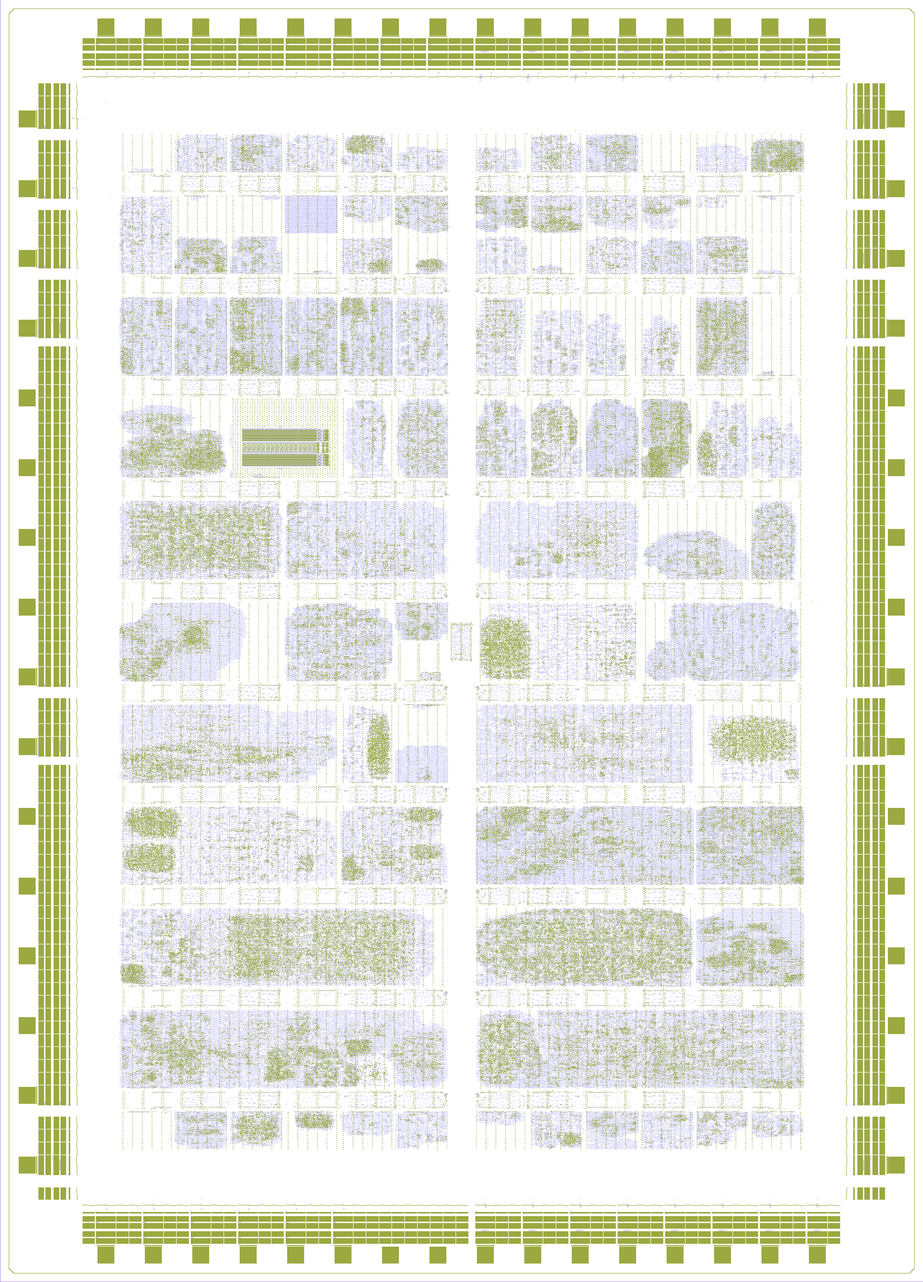
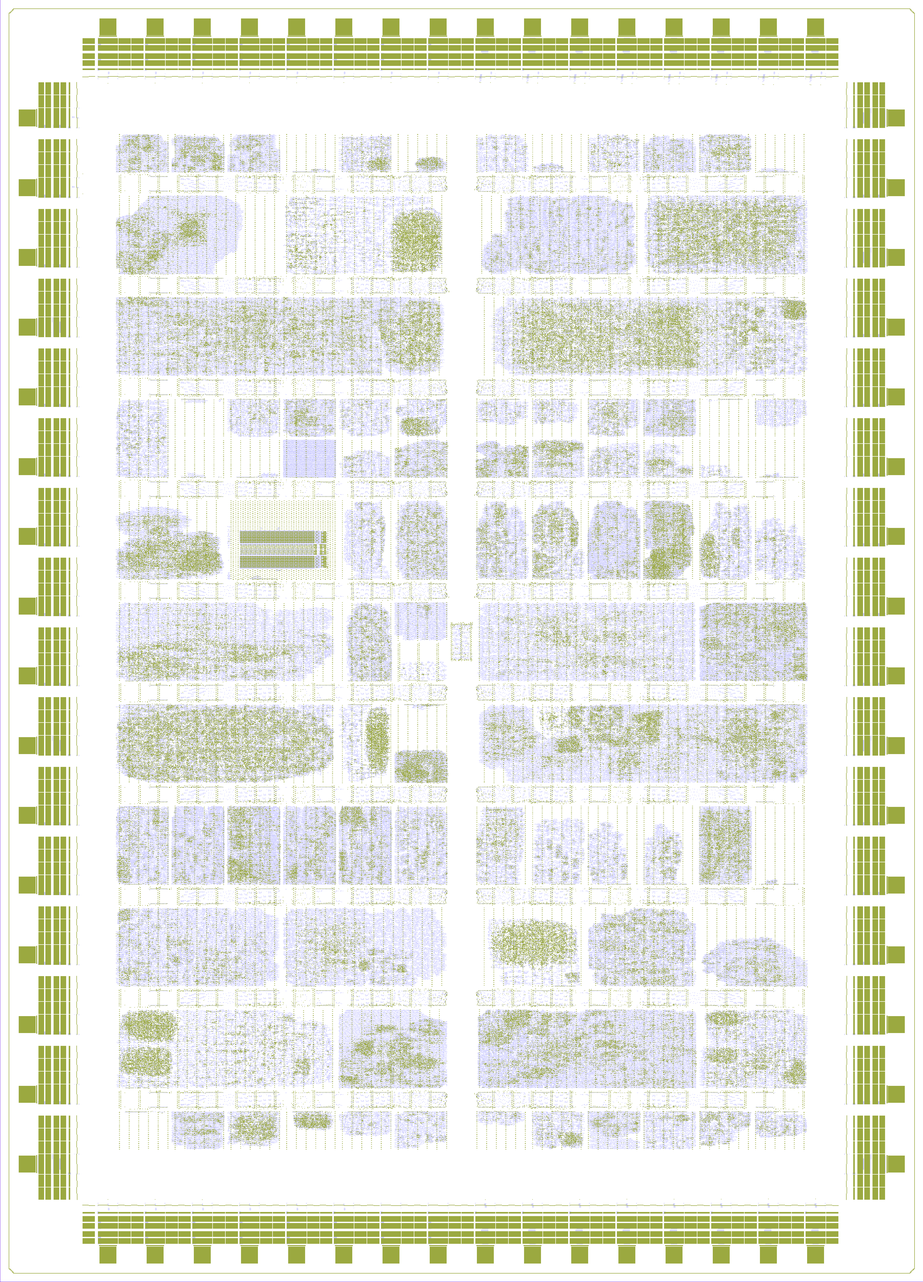
docs(datasheet): update GDS renders

diff --git a/docs/chip_map.md b/docs/chip_map.md
@@ -1,9 +1,25 @@
-# Chip map
+# Chip renders
+
+## Full chip render
 
 ![GDS render](images/full_gds.png){width=12cm}
 
+```{=latex}
 \pagebreak
+```
 
-![Logic density (local interconnect layer)](images/logic_density.png){width=12cm}
+## Top Metal 1/2
 
+![TopMetal1/2 render](images/top_metal.png){width=12cm}
+
+```{=latex}
 \pagebreak
+```
+
+## Logic density view
+
+![Logic density](images/logic_density.png){width=12cm}
+
+```{=latex}
+\pagebreak
+```
